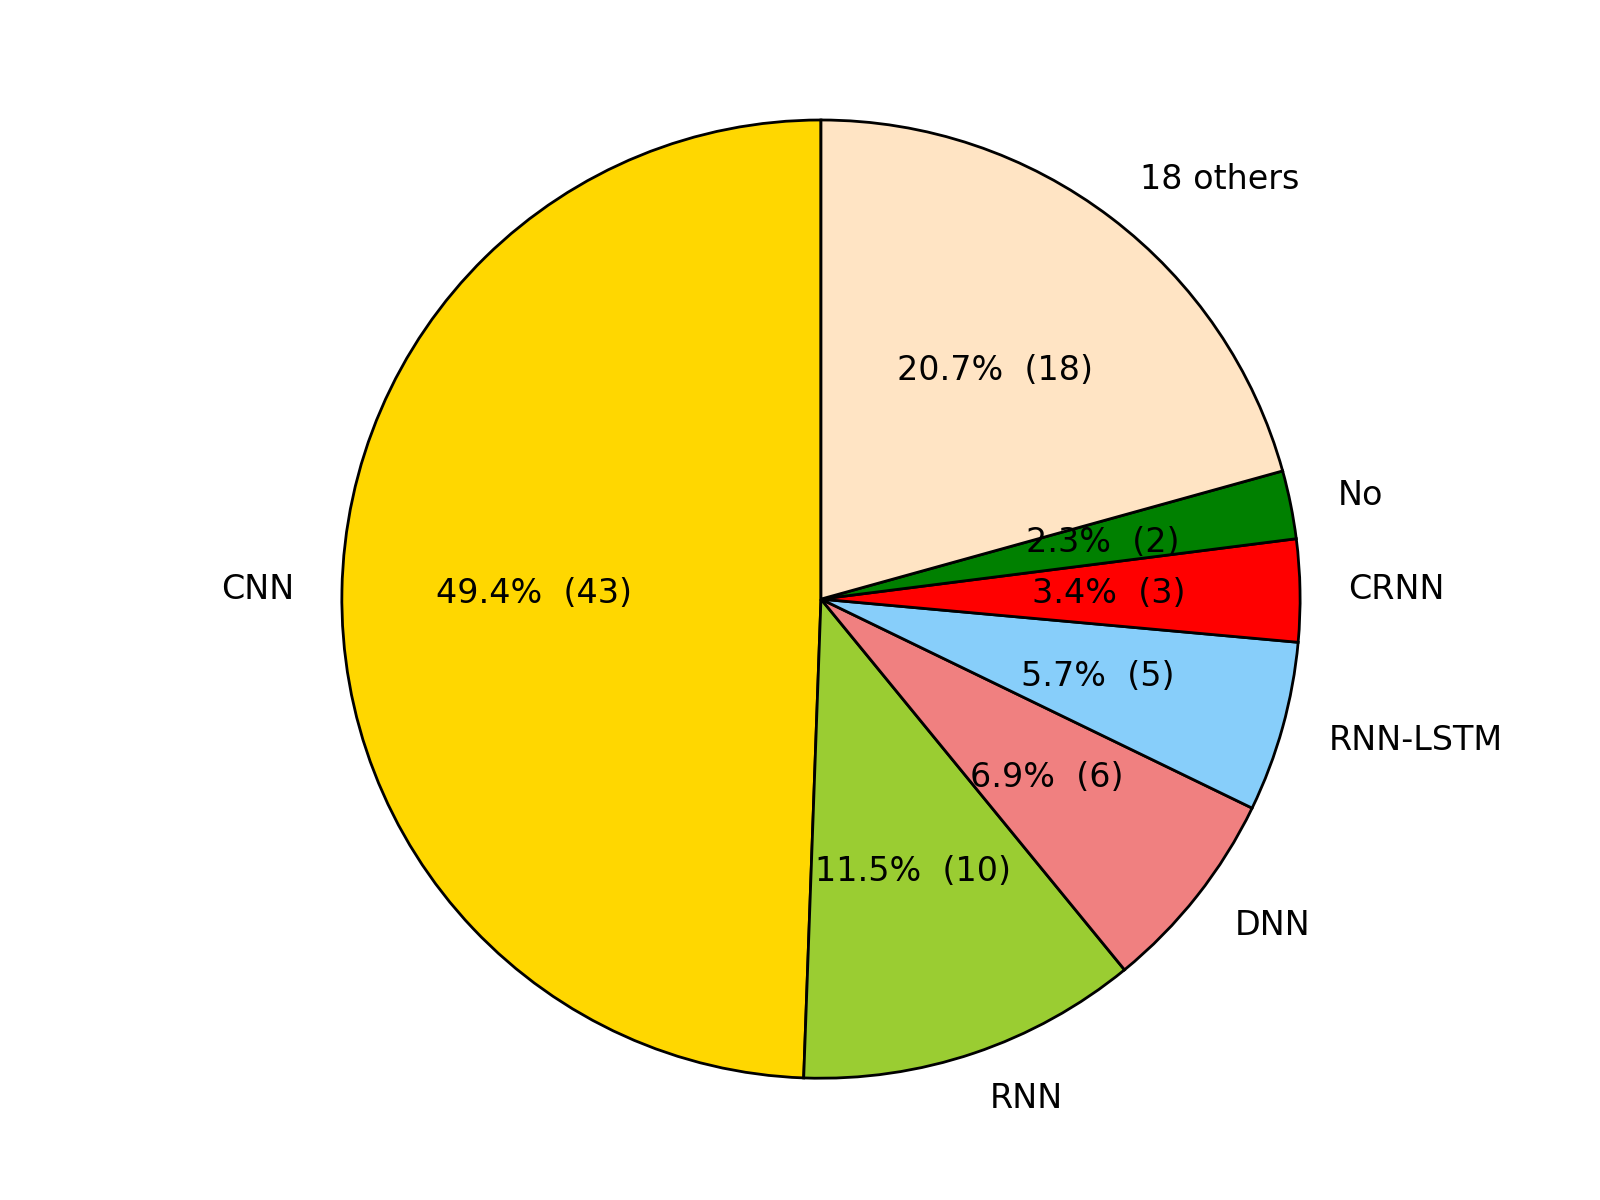
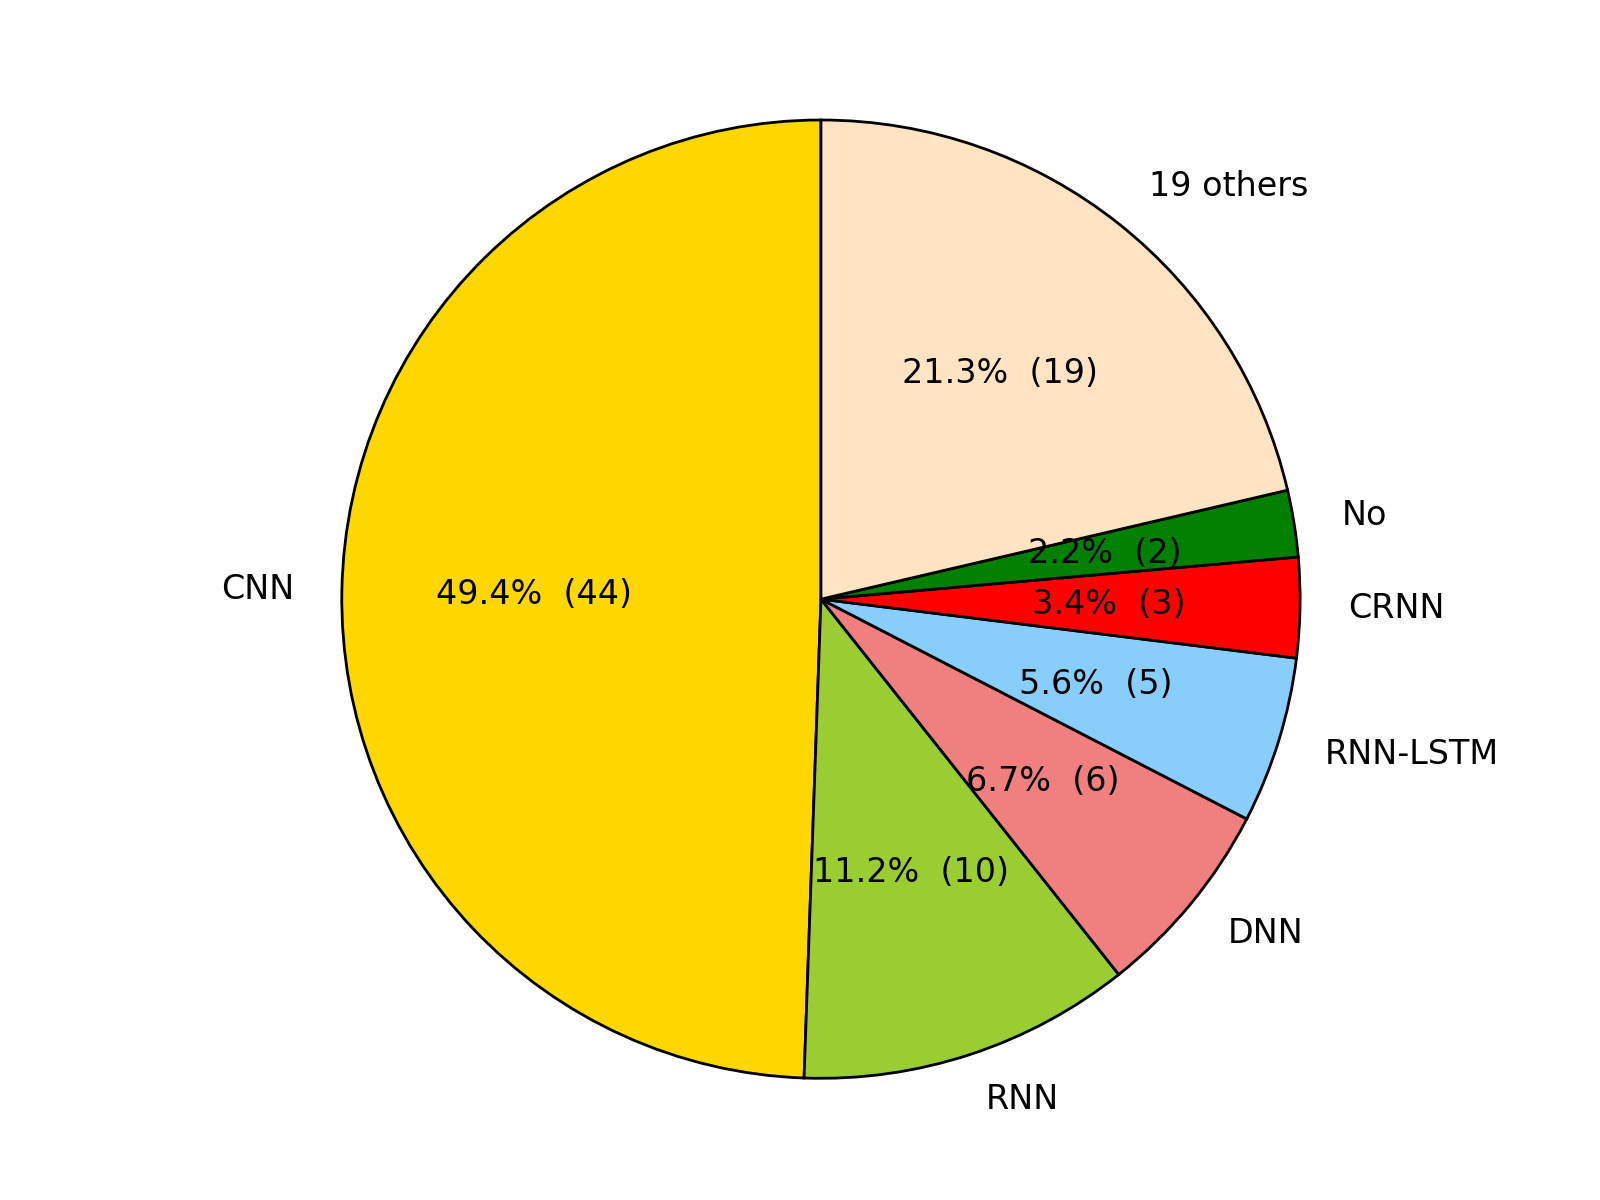
Add Dong2018

diff --git a/README.md b/README.md
@@ -53,6 +53,7 @@ However, these surveys do not cover music information retrieval tasks that are i
 | [Multiscale approaches to music audio feature learning](http://ismir2013.ismir.net/wp-content/uploads/2013/09/69_Paper.pdf) | No |
 | [End-to-end learning for music audio](http://ieeexplore.ieee.org/abstract/document/6854950/) | No |
 | [Basic filters for convolutional neural networks: Training or design?](https://arxiv.org/pdf/1709.02291.pdf) | No |
+| [MuseGAN: Multi-track sequential generative adversarial networks for symbolic music generation and accompaniment](https://arxiv.org/pdf/1709.06298.pdf) | [GitHub](https://github.com/salu133445/musegan) |
 | [Ensemble Of Deep Neural Networks For Acoustic Scene Classification](https://arxiv.org/pdf/1708.05826.pdf) | No |
 | [Robust downbeat tracking using an ensemble of convolutional networks](http://ieeexplore.ieee.org/abstract/document/7728057/) | No |
 | [Downbeat tracking with multiple features and deep neural networks](http://perso.telecom-paristech.fr/~grichard/Publications/2015-durand-icassp.pdf) | No |
@@ -226,24 +227,24 @@ Each entry in [dl4m.bib](dl4m.bib) also displays additional information:
 
 ## Statistics and visualisations
 
-- 155 papers referenced. See the details in [dl4m.bib](dl4m.bib).
+- 156 papers referenced. See the details in [dl4m.bib](dl4m.bib).
 There are more papers from 2017 than any other years combined.
 Number of articles per year:
 ![Number of articles per year](fig/articles_per_year.png)
-- If you are applying DL to music, there are [323 other researchers](authors.md) in your field.
+- If you are applying DL to music, there are [326 other researchers](authors.md) in your field.
 - 33 tasks investigated. See the list of [tasks](tasks.md).
 Tasks pie chart:
 ![Tasks pie chart](fig/pie_chart_task.png)
-- 47 datasets used. See the list of [datasets](datasets.md).
+- 48 datasets used. See the list of [datasets](datasets.md).
 Datasets pie chart:
 ![Datasets pie chart](fig/pie_chart_dataset.png)
-- 26 architectures used. See the list of [architectures](architectures.md).
+- 27 architectures used. See the list of [architectures](architectures.md).
 Architectures pie chart:
 ![Architectures pie chart](fig/pie_chart_architecture.png)
 - 9 frameworks used. See the list of [frameworks](frameworks.md).
 Frameworks pie chart:
 ![Frameworks pie chart](fig/pie_chart_framework.png)
-- Only 39 articles (25%) provide their source code.
+- Only 40 articles (25%) provide their source code.
 Repeatability is the key to good science, so check out the [list of useful resources on reproducibility for MIR and ML](reproducibility.md).
 
 [Go back to top](https://github.com/ybayle/awesome-deep-learning-music#deep-learning-for-music-dl4m-)

diff --git a/datasets.md b/datasets.md
@@ -29,6 +29,7 @@ Please refer to the list of useful acronyms used in deep learning and music: [ac
 - [LSDB](lsdb.flow-machines.com/)
 - [LabROSA](http://labrosa.ee.columbia.edu/projects/melody/)
 - [Lakh MIDI](https://labrosa.ee.columbia.edu/sounds/music/)
+- [Lakh Pianoroll Datase](https://github.com/salu133445/musegan/blob/master/docs/dataset.md)
 - [Last.fm](https://www.last.fm/)
 - [LyricFind](http://lyricfind.com/)
 - [MAPS](http://www.tsi.telecom-paristech.fr/aao/en/2010/07/08/maps-database-a-piano-database-for-multipitch-estimation-and-automatic-transcription-of-music/)

diff --git a/authors.md b/authors.md
@@ -49,6 +49,7 @@
 - Dimoulas, Charalampos
 - Dixon, Simon
 - Doerfler, Monika
+- Dong, Hao-Wen
 - Dorfer, Matthias
 - Drossos, Konstantinos
 - Duppada, Venkatesh
@@ -100,6 +101,7 @@
 - Hirvonen, Toni
 - Hockman, Jason
 - Holzapfel, Andre
+- Hsiao, Wen-Yi
 - Hsu, Yu-Lun
 - Hu, Min-Chun
 - Huang, Allen
@@ -311,6 +313,7 @@
 - Xu, Mingxing
 - Xu, Yong
 - Yan, Yonghong
+- Yang, Li-Chia
 - Yang, Yi-Hsuan
 - Ycart, Adrien
 - Yong Xu

diff --git a/CONTRIBUTING.md b/CONTRIBUTING.md
@@ -70,6 +70,7 @@ Here are the steps to follow for adding one (or multiple) article:
         note = {},
         optimizer = {},
         pages = {},
+        reproducible = {},
         task = {},
         title = {},
         year = {},

diff --git a/architectures.md b/architectures.md
@@ -17,6 +17,7 @@ Please refer to the list of useful acronyms used in deep learning and music: [ac
 - DNN
 - ELM
 - FCN
+- GAN
 - HAN
 - MCLNN
 - MLP

diff --git a/publication_type.md b/publication_type.md
@@ -16,6 +16,7 @@
 
 ### Conferences:
 
+- AAAI
 - ACM_MM
 - Audio Engineering Society Convention
 - Biennial Symposium for Arts and Technology
